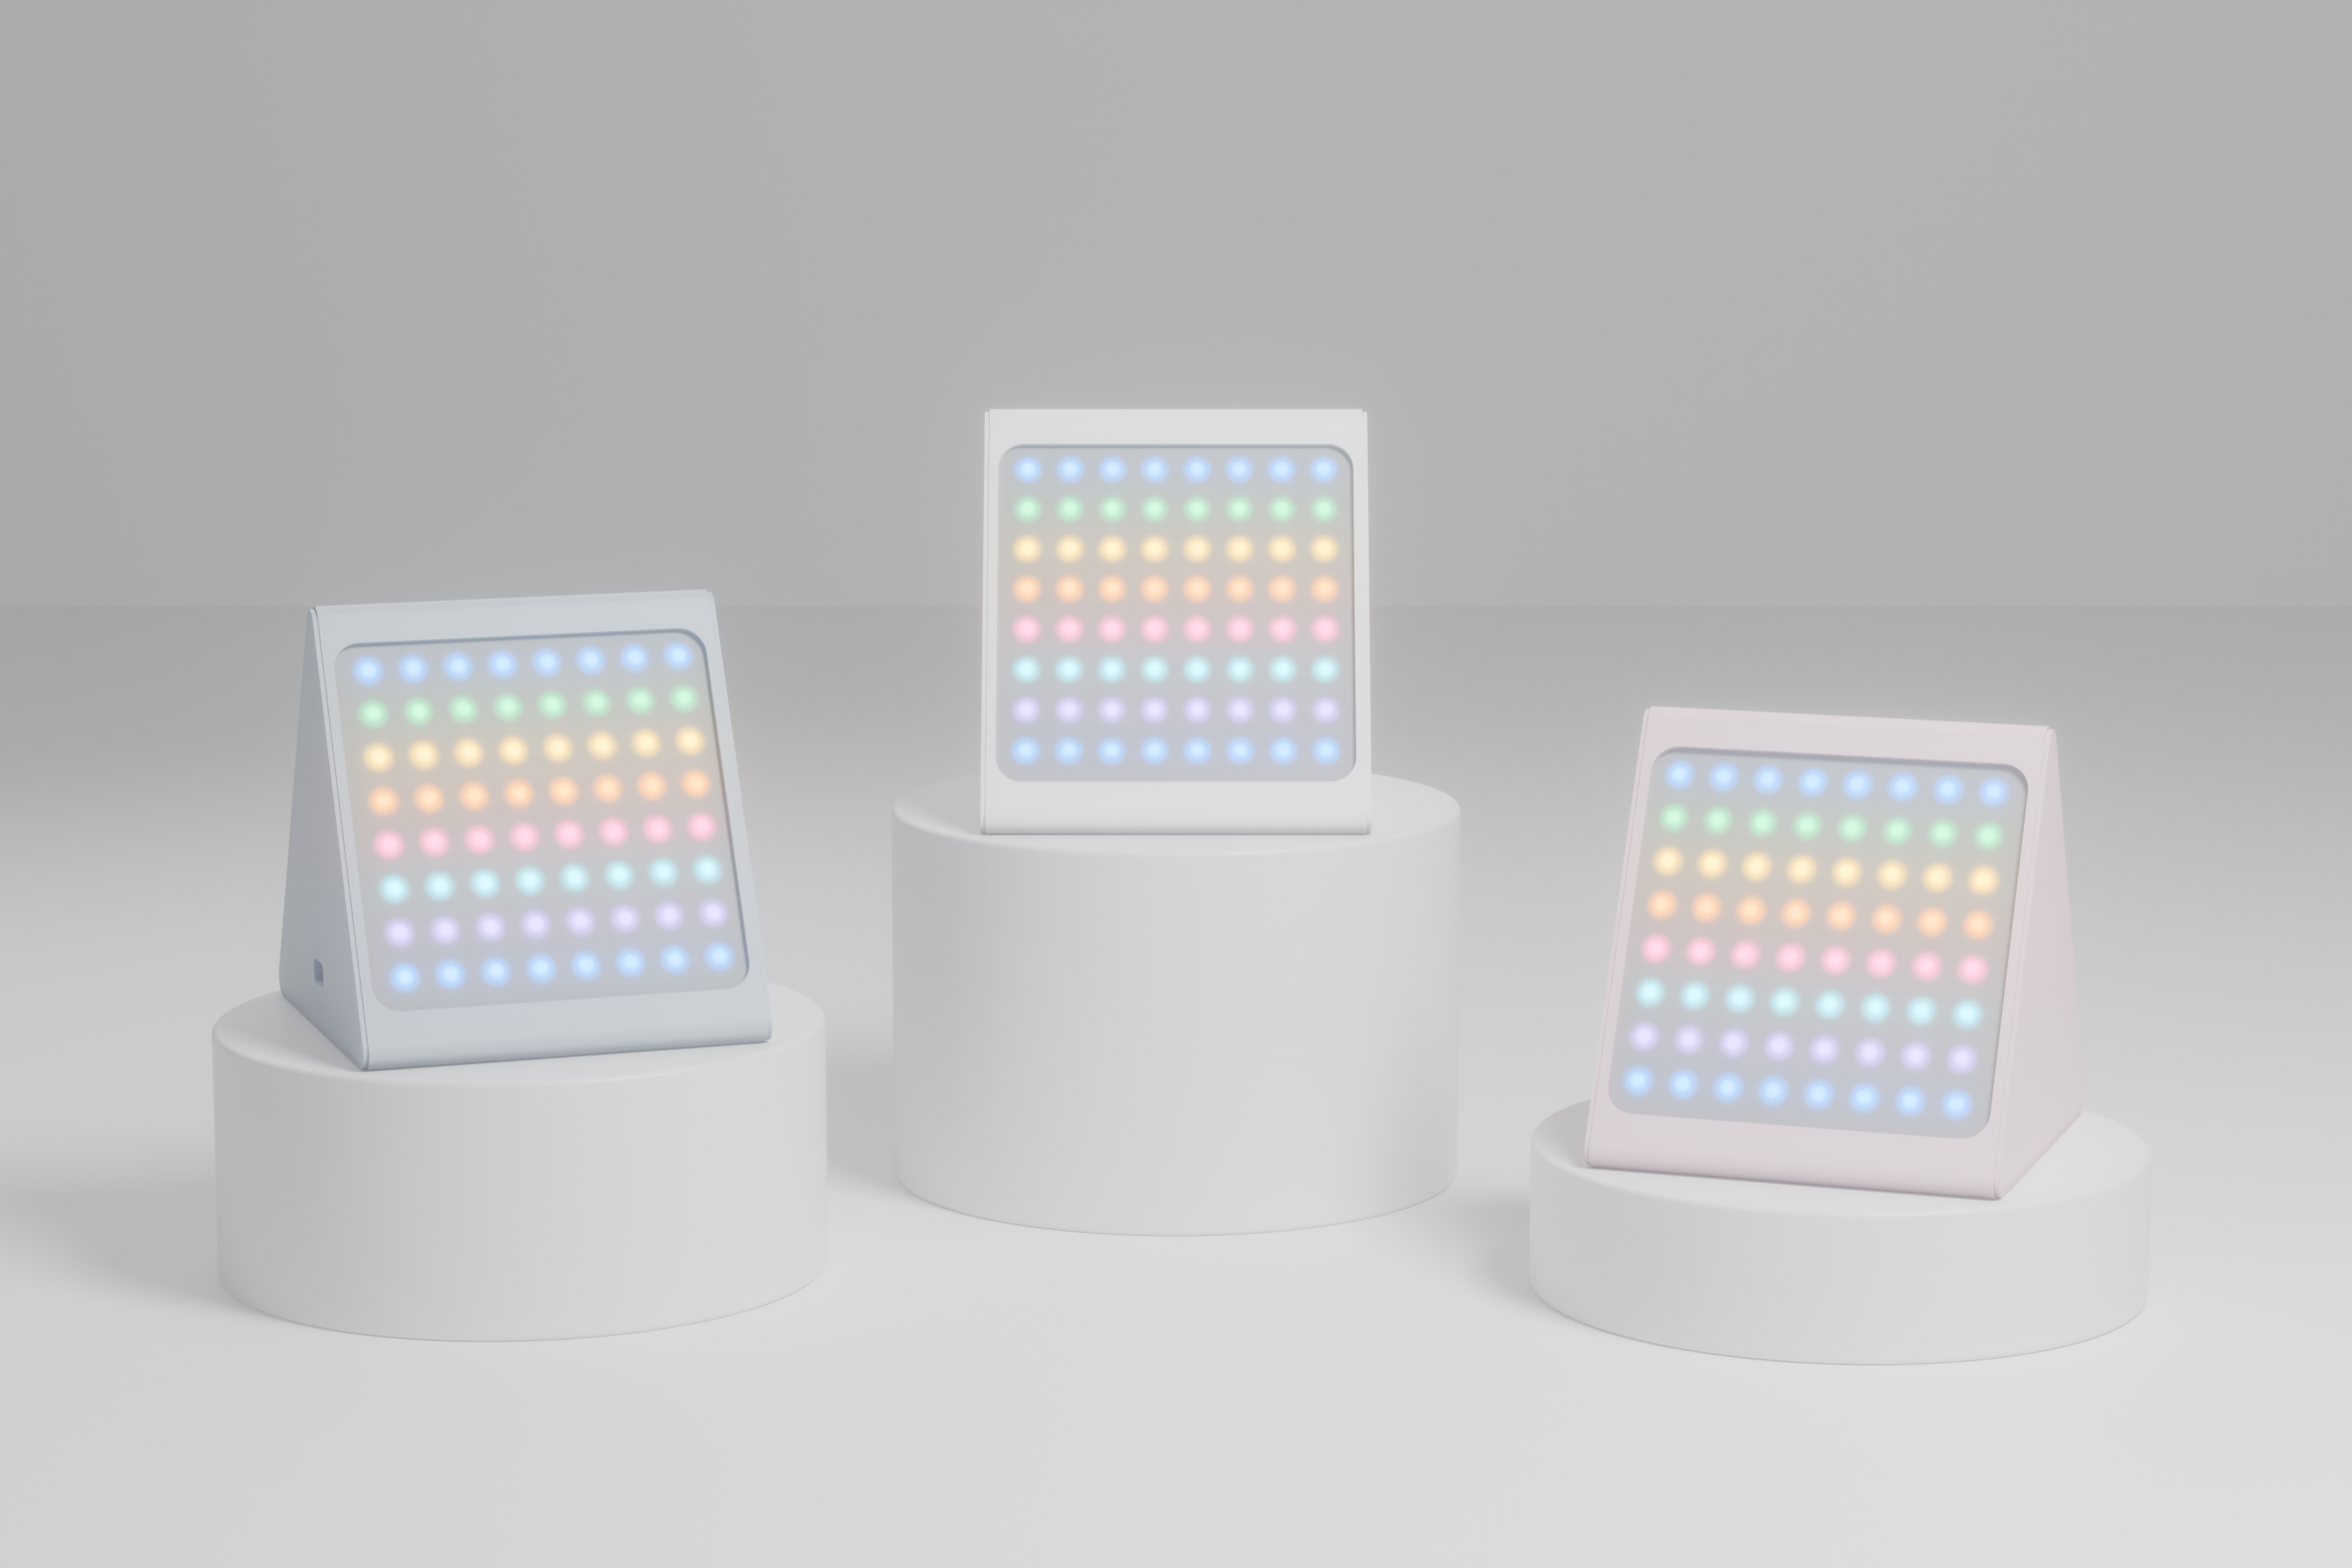
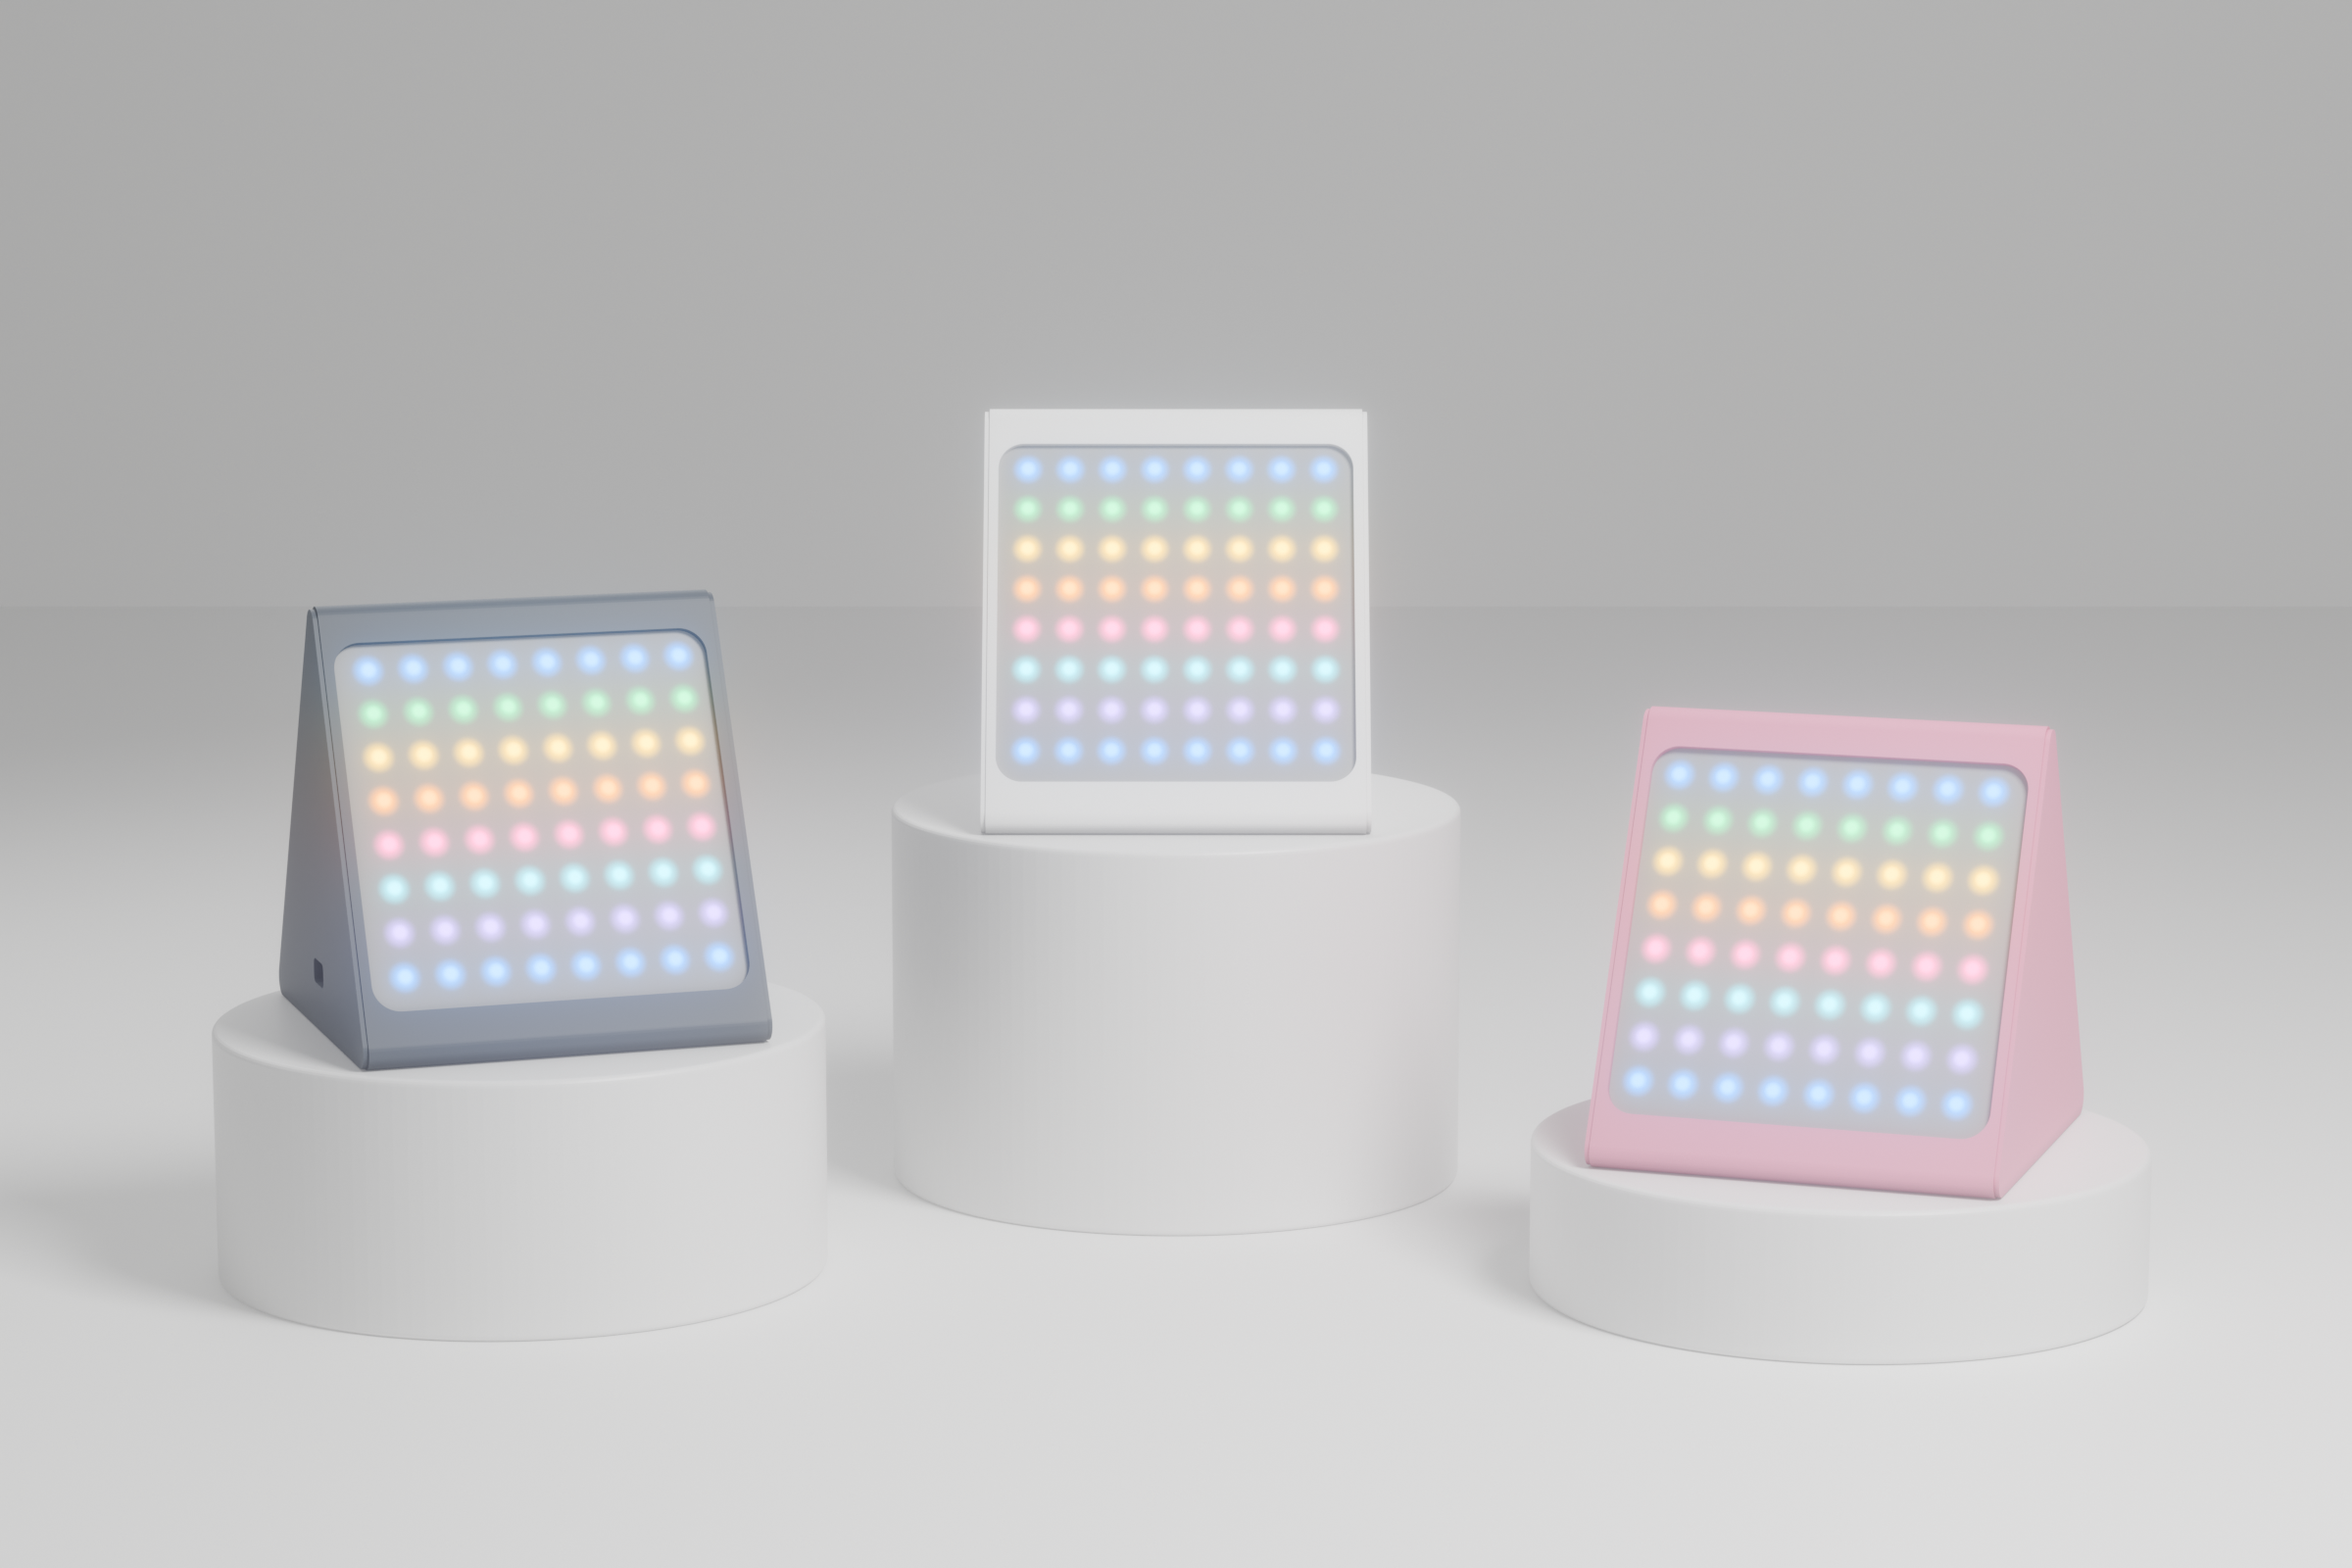
Update the Mini finishes lineup image

Changed region(s): [[0.0938, 0.375, 0.3438, 0.6875], [0.6562, 0.4375, 0.875, 0.7812]]

diff --git a/mini/index.html b/mini/index.html
@@ -41,7 +41,7 @@
     <figure class="tracker-demo"><div class="tracker-sync" data-state="0"><img class="tracker-state-0" src="../assets/mini/animation/state-0/front-square.webp?v=neutral-white-2" alt="Mini showing recent habit history before today's completions" width="972" height="972" loading="lazy"><img class="tracker-state-1" src="../assets/mini/animation/state-1/front-square.webp?v=neutral-white-2" alt="Mini with one completion in today's column" width="972" height="972" loading="lazy"><img class="tracker-state-2" src="../assets/mini/animation/state-2/front-square.webp?v=neutral-white-2" alt="Mini with two completions in today's column" width="972" height="972" loading="lazy"><img class="tracker-state-3" src="../assets/mini/animation/state-3/front-square.webp?v=neutral-white-2" alt="Mini with three completions in today's column" width="972" height="972" loading="lazy"><img class="tracker-state-4" src="../assets/mini/animation/state-4/front-square.webp?v=neutral-white-2" alt="Mini with four completions in today's column" width="972" height="972" loading="lazy"><img class="tracker-state-5" src="../assets/mini/animation/state-5/front-square.webp?v=neutral-white-2" alt="Mini with all five completions in today's column" width="972" height="972" loading="lazy"></div><figcaption>See your day light up</figcaption></figure>
   </div>
 </section>
-<section class="finishes" id="finishes" aria-labelledby="finishes-title"><div class="finishes-head"><div class="label">Three finishes</div><h2 id="finishes-title">White. Sakura.<br>Blue grey.</h2><p>Pick the tone that fits your desk. Each case is 3D printed in matte PLA and hand assembled, so every unit keeps a little of its own character.</p></div><figure class="finishes-scene"><img src="../assets/mini/finishes-lineup.webp?v=1" alt="Three Ritlum mini units in white, sakura pink and blue grey, each resting on a white cylindrical riser" width="2400" height="1600" loading="lazy"></figure></section>
+<section class="finishes" id="finishes" aria-labelledby="finishes-title"><div class="finishes-head"><div class="label">Three finishes</div><h2 id="finishes-title">White. Sakura.<br>Blue grey.</h2><p>Pick the tone that fits your desk. Each case is 3D printed in matte PLA and hand assembled, so every unit keeps a little of its own character.</p></div><figure class="finishes-scene"><img src="../assets/mini/finishes-lineup.webp?v=2" alt="Three Ritlum mini units in white, sakura pink and blue grey, each resting on a white cylindrical riser" width="2400" height="1600" loading="lazy"></figure></section>
 <section class="modes" id="modes" aria-labelledby="modes-title">
   <div class="clock-visual"><video class="clock-video" muted loop playsinline preload="none" poster="../assets/mini/clock-mode.webp?v=blue-3" data-src="../assets/mini/clock-loop.mp4?v=blue-3" aria-label="Ritlum mini scrolling the time across its display in soft blue pixels"></video></div>
   <div class="clock-copy"><div class="label">Useful between check-ins</div><h2 id="modes-title">Your habits.<br>Then the time.</h2><p>When you are not looking back at your progress, mini becomes a softly lit blue pixel clock. On its compact 8 × 8 display, the time moves gently across the grid.</p><p class="mode-detail">Set clock mode in the Ritlum app. Once the time is synced, mini keeps it running locally while it stays powered.</p></div>
